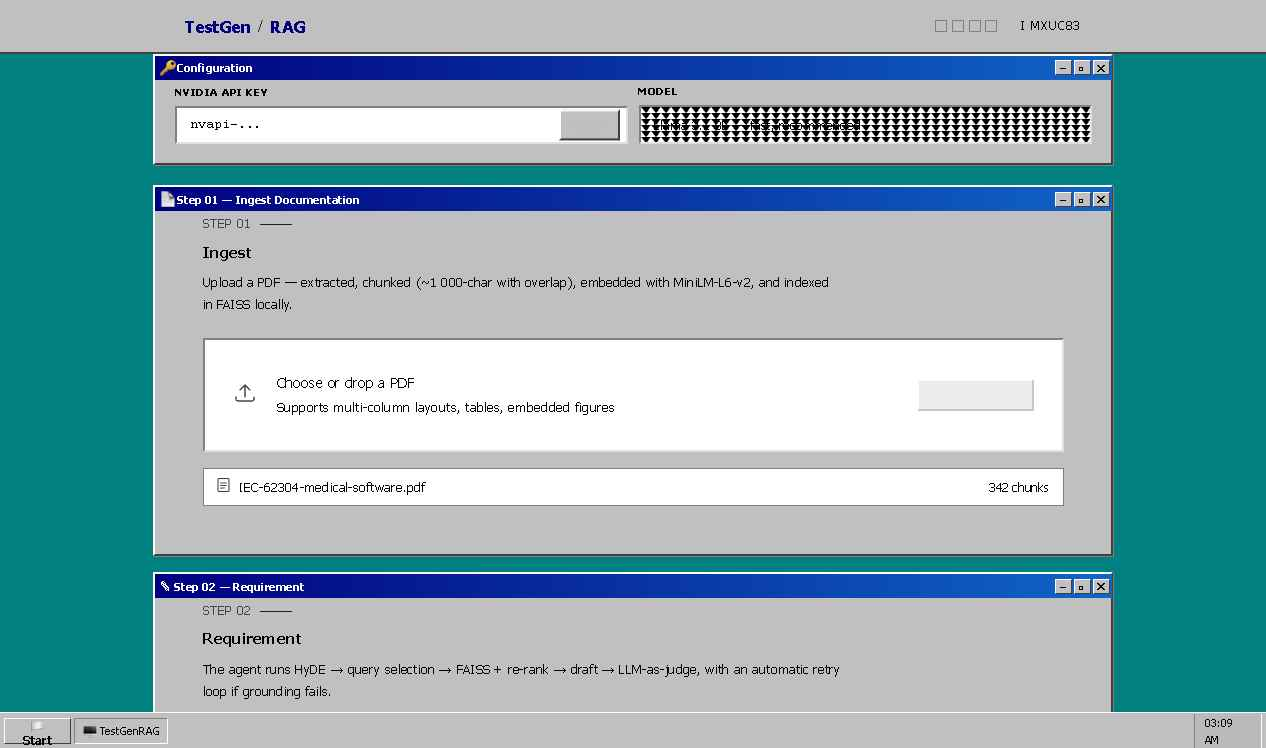
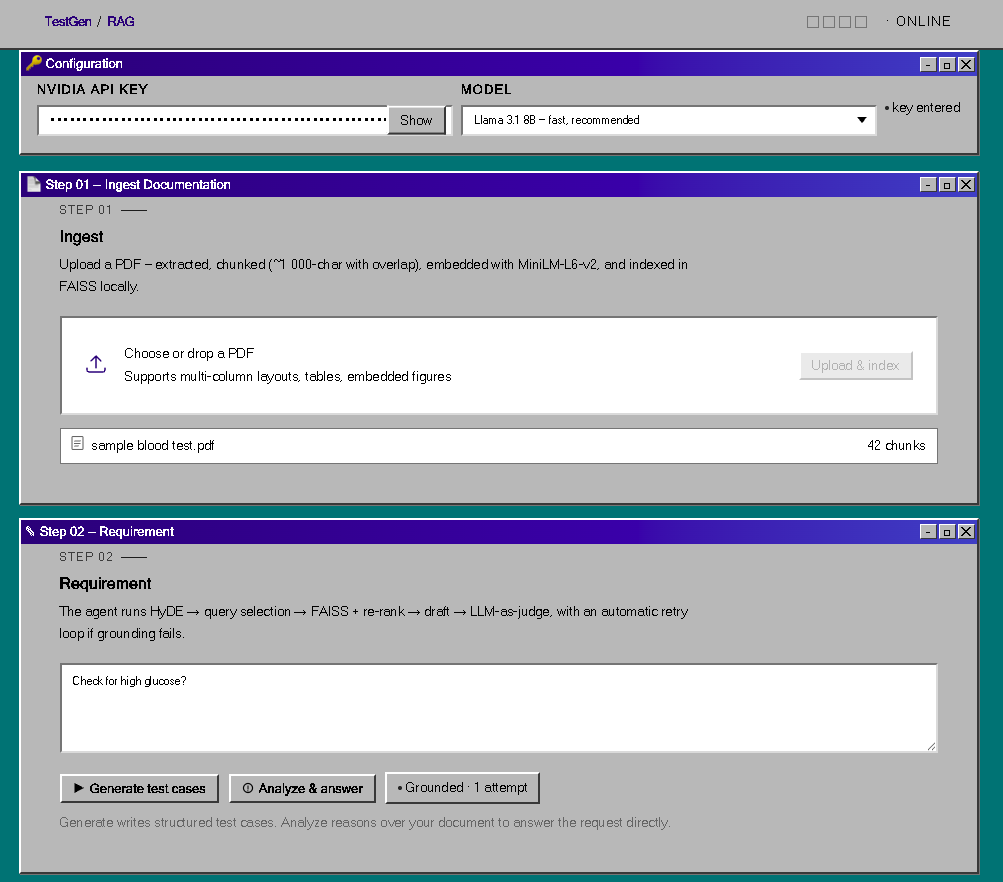
docs: refresh interface screenshots (Win98 / Dark / Light) + describe each theme
- Replace screenshots with the three current theme captures
- Add dark.png and light.png; remove obsolete modern.png
- Rewrite 'The interface' section with a description of what makes each
  theme special (retro Win98 windowing, high-contrast acid-lime dark,
  airy pastel light) and the one-file/no-rebuild theming story

diff --git a/README.md b/README.md
@@ -40,21 +40,27 @@ It is **model-agnostic** (Llama, Mistral, Claude, GPT, or fully local Ollama) an
 
 ## 📸 The interface
 
-A single, self-contained web app (HTML + vanilla JS, no build step) with **three switchable themes** — same pipeline and API behind each. The app is **live now** at **[afnansadiq-testgenrag.hf.space/app](https://afnansadiq-testgenrag.hf.space/app)**.
+One app, **three complete personalities.** TestGenRAG ships as a single self-contained page (HTML + vanilla JS, *no build step*), yet it swaps between three fully-realised themes instantly — pure CSS over the same DOM, no reload, no rebuild, and your choice is remembered between visits. The same agentic pipeline, the same API, three very different rooms to run it in. It's **live now** at **[afnansadiq-testgenrag.hf.space/app](https://afnansadiq-testgenrag.hf.space/app)** — switch themes from the panel in the bottom-left corner.
 
-<div align="center">
+### 🪟 Windows 98 — the signature look (default)
 
-**Modern (dark) theme** — the default clean look
+![TestGenRAG in Windows 98 theme: teal desktop, each section rendered as a 90s window with a purple gradient title bar, classic minimize/maximize/close buttons, beveled controls, and a Start-menu taskbar](docs/screenshots/win98.png)
 
-![TestGenRAG modern dark interface: NVIDIA key + model picker, Step 01 ingest, Step 02 requirement](docs/screenshots/modern.png)
+The one nobody expects. Each section of the app becomes a genuine **late-90s desktop window** — purple gradient title bars, the classic `– □ ✕` controls, chiselled 3D buttons, the teal void of an old CRT, even a working **Start menu, taskbar, and clock**. The title bars aren't a background image; they're injected live onto the real sections, so a serious RAG pipeline ends up wearing a perfectly nostalgic disguise. It's a memorable, conversation-starting front door that still does real work underneath.
 
-**Windows 98 mode** — a retro theme, draggable windows and all
+### 🌑 Dark — sleek and high-contrast
 
-![TestGenRAG Windows 98 themed interface with classic window chrome and taskbar](docs/screenshots/win98.png)
+![TestGenRAG in Dark theme: near-black canvas, giant ghosted 01 / 02 section numbers, bold condensed display type, and a single acid-lime accent on the primary action button](docs/screenshots/dark.png)
 
-</div>
+Editorial meets terminal. A near-black canvas, oversized **ghosted "01 / 02" section numerals**, and bold condensed display type (Syne) give it a confident, magazine-like rhythm. The whole palette is monochrome except for one disciplined pop of **acid-lime** (`#d4ff00`) reserved for the primary action — so your eye always knows where to go next. A soft cursor-following glow and fine grain texture make it feel alive without getting in the way.
 
-> A light theme and a live "tweaks" panel are included too. Switch themes from the toggle in the corner of the [live demo](https://afnansadiq-testgenrag.hf.space/app).
+### ☀️ Light — bright, airy, editorial
+
+![TestGenRAG in Light theme: clean white canvas with soft pastel section tints (lavender, cream), the same giant ghosted numbers, rounded cards and generous whitespace](docs/screenshots/light.png)
+
+The same strong typographic layout, reimagined for daylight. A clean white canvas with **soft pastel section tints** (lavender for ingest, warm cream for the requirement step), rounded cards, and generous whitespace make it calm and presentation-friendly — ideal for screen-sharing, demos, or anyone who simply prefers light mode. Even the copy adapts: a few helper lines rephrase themselves to suit the brighter, friendlier tone.
+
+> **What's special:** same code, zero rebuild — a retro-OS novelty, a high-contrast dark workspace, and a clean light reading mode all live in one file, switchable in a click and remembered for next time. A live "tweaks" panel (accent colour, section tints) is included too.
 
 ---
 